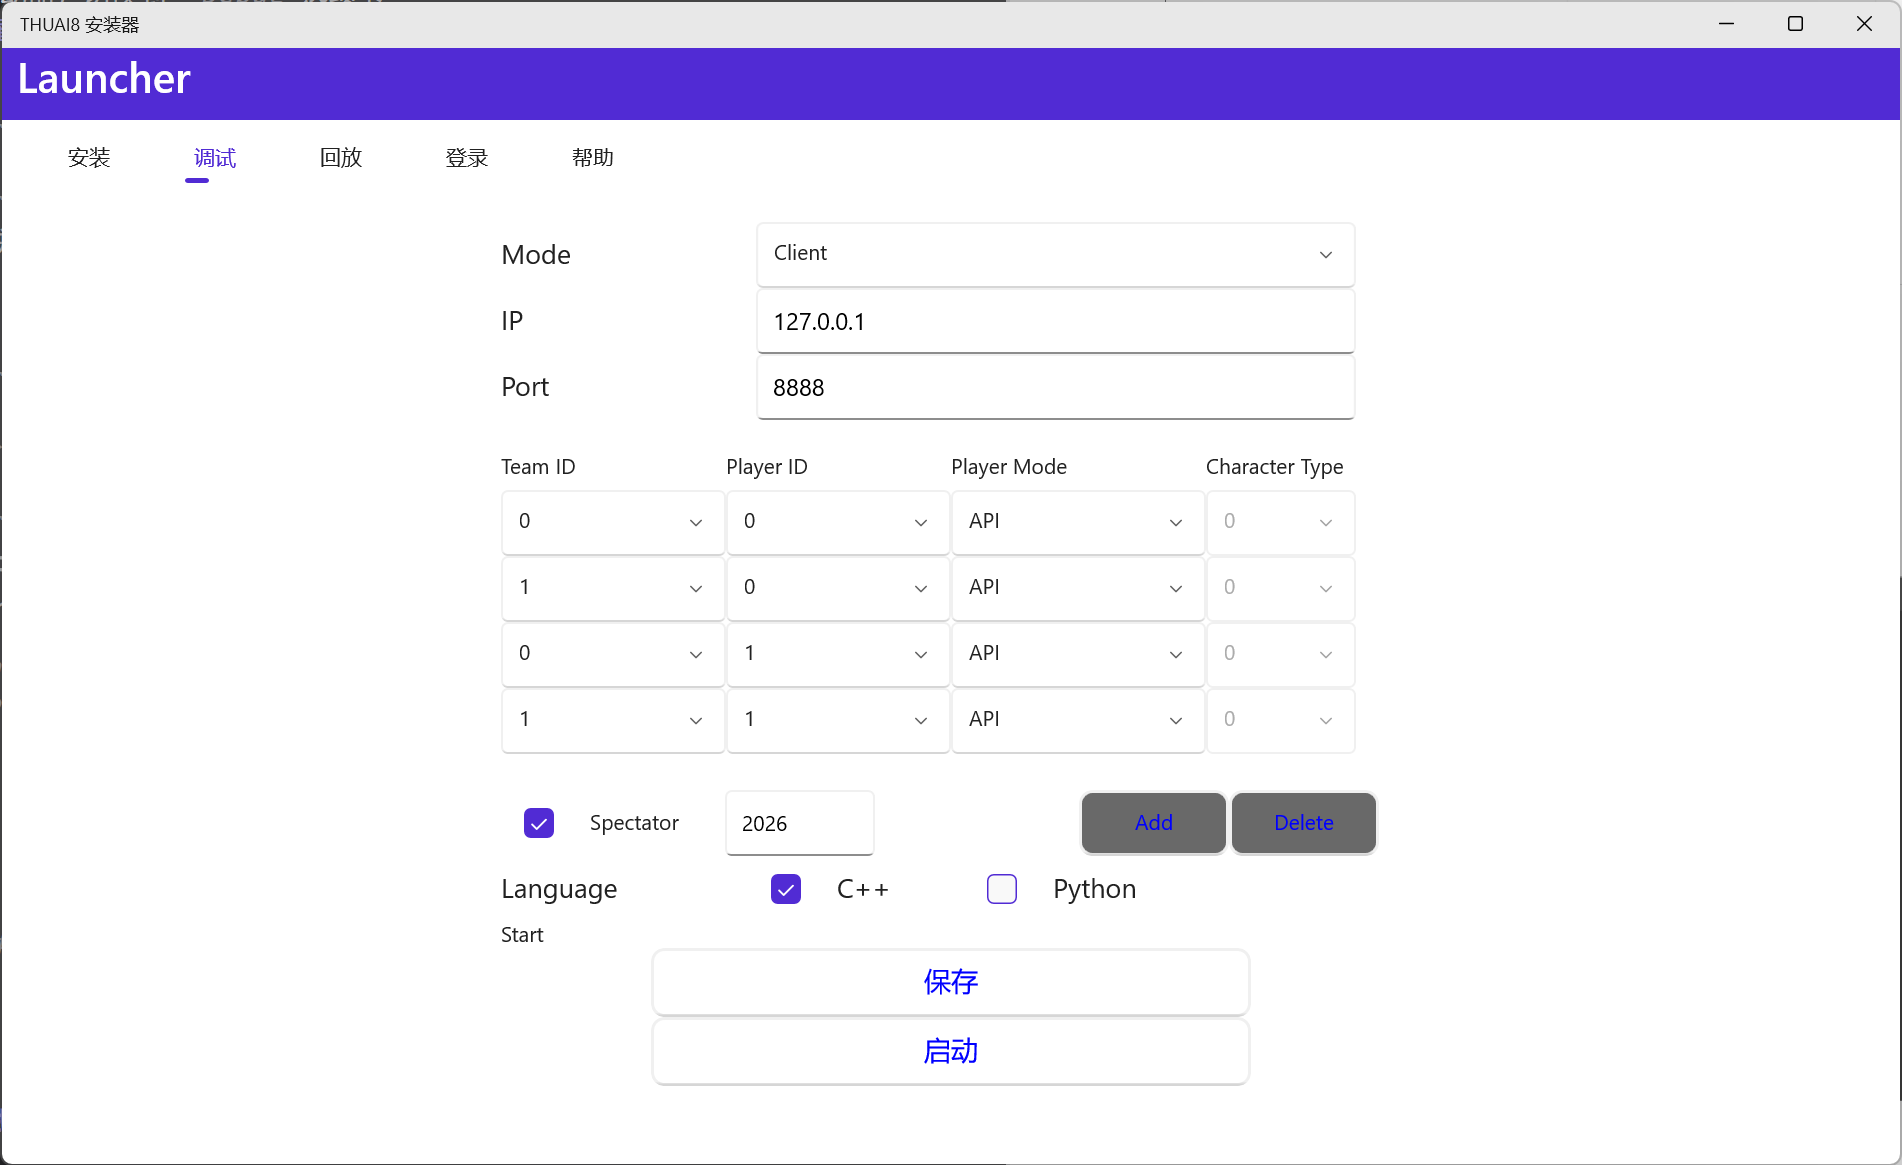
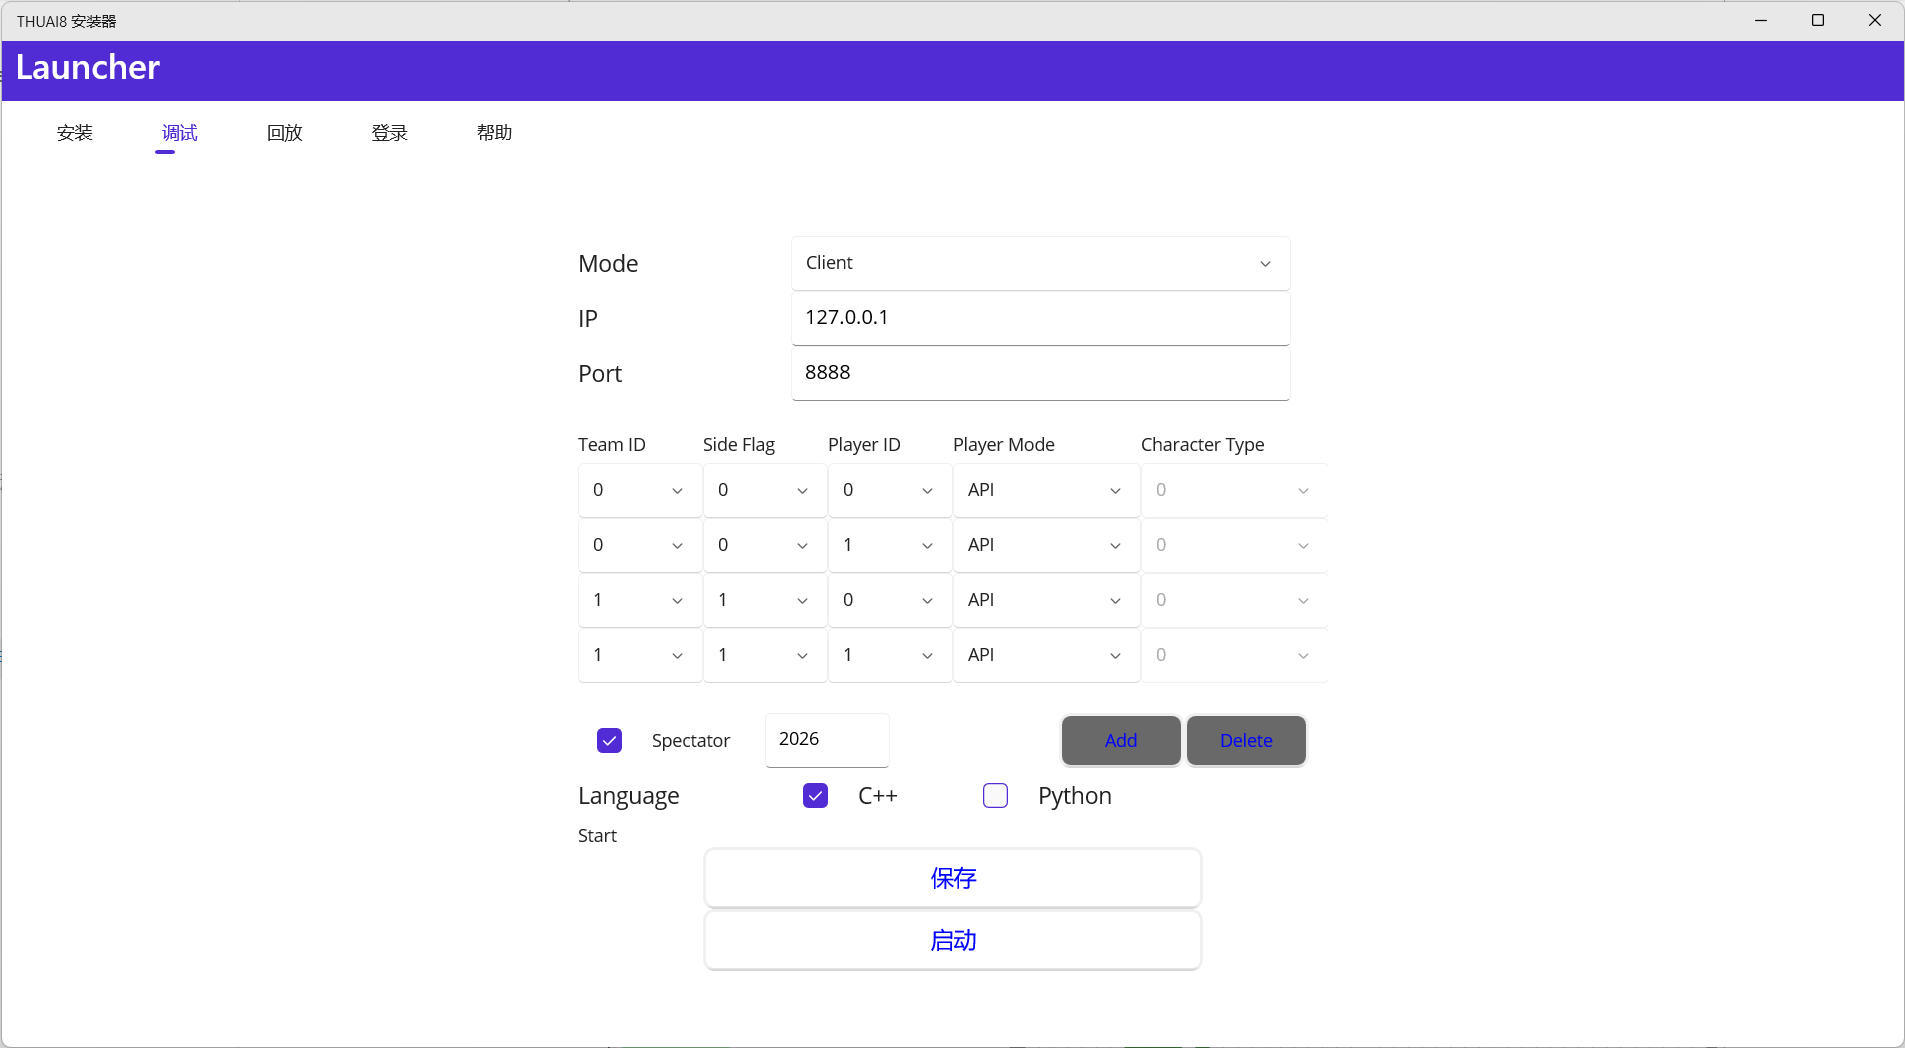
fix:
ai_manualdocs

diff --git a/docs/contests/THUAI8/intro/ai_manual.md b/docs/contests/THUAI8/intro/ai_manual.md
@@ -95,7 +95,7 @@ sidebar_label: AI 编写手册
 - 切换Mode为Client，此时可以配置Client启动
 - 与Server相同，选手可以配置Client启动的IP和端口（一般不需要更改）。在此基础上，选手可以加入一定数量的对战Client和旁观Client（调试界面）。
 - 点击Add加入对战Client。对于不同的Server配置，需要加入的对战Client数量也不同。对于每一支队伍人数为x的情况，需要为每支队伍各加入x+1个Client，分别对应PlayerID从0到x；teamID和SideFlag保持一致。例如，对于每支队伍人数为1的情况，客户端加入情况应该如下配置：
-![图片](../../assets/THUAI8/intro/image.png)
+![图片](../../assets/THUAI8/intro/Clientdebug.png)
 
 - 勾选Spectator以启用简易调试界面，并确保其ID大于2025（默认2026）
 - 选择正确的Language，保存后即可启动Client
